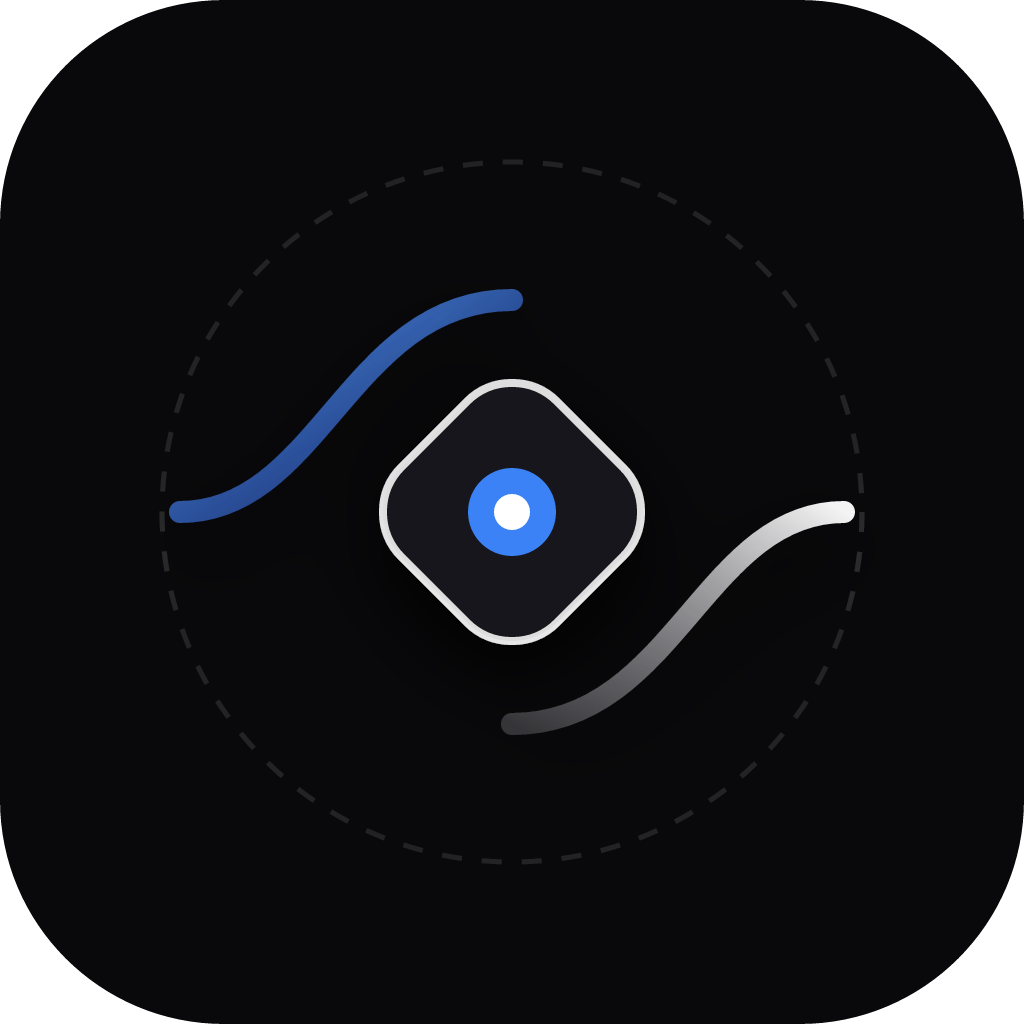
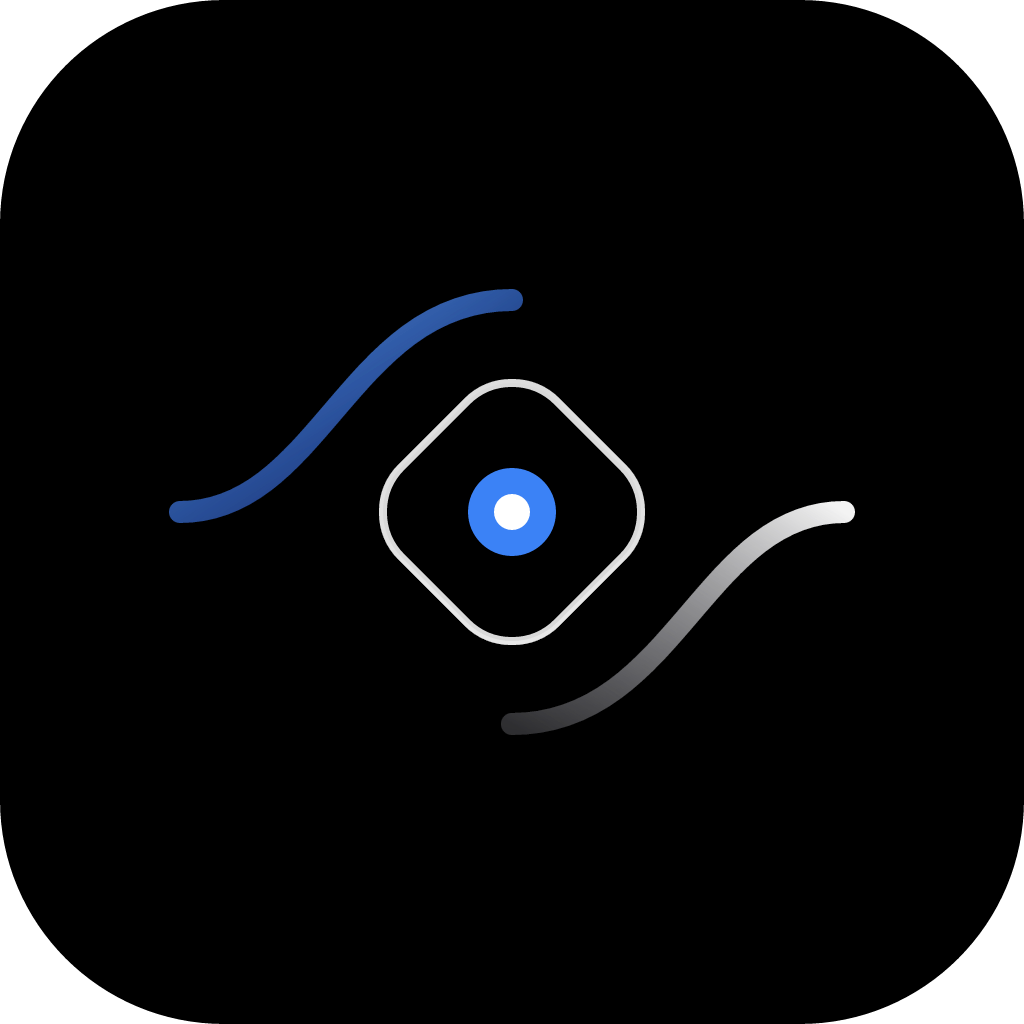
Add files via upload

Changed region(s): [[0.375, 0.375, 0.625, 0.625], [0.8125, 0.5312, 0.8438, 0.5625], [0.1562, 0.5312, 0.1875, 0.5625]]

diff --git a/index.html b/index.html
@@ -31,12 +31,11 @@
       <feDropShadow dx="0" dy="16" stdDeviation="20" flood-color="#000000" flood-opacity="0.95"/>
     </filter>
   </defs>
-  <rect width="512" height="512" rx="112" fill="#09090b"/>
+  <rect width="512" height="512" rx="112" fill="#000000"/>
   <g filter="url(#node-shadow)">
-    <circle cx="256" cy="256" r="175" fill="none" stroke="#ffffff" stroke-opacity="0.1" stroke-width="2.5" stroke-dasharray="10 10"/>
     <path d="M 90 256 C 160 256, 175 150, 256 150" fill="none" stroke="url(#line-blue)" stroke-width="11" stroke-linecap="round"/>
     <path d="M 422 256 C 352 256, 337 362, 256 362" fill="none" stroke="url(#line-white)" stroke-width="11" stroke-linecap="round"/>
-    <rect x="201" y="201" width="110" height="110" rx="32" transform="rotate(45 256 256)" fill="#18181b" stroke="#ffffff" stroke-width="4" stroke-opacity="0.85"/>
+    <rect x="201" y="201" width="110" height="110" rx="32" transform="rotate(45 256 256)" fill="#000000" stroke="#ffffff" stroke-width="4" stroke-opacity="0.85"/>
     <circle cx="256" cy="256" r="22" fill="#3b82f6"/>
     <circle cx="256" cy="256" r="9" fill="#ffffff"/>
   </g>
@@ -109,7 +108,7 @@
         }
 
         /* -----------------------------------------------------------------
-           СВЕТЛАЯ ТЕМА (LIGHT FROSTED GLASS) 
+           СВЕТЛАЯ ТЕМА (LIGHT FROSTED Glass) 
            ----------------------------------------------------------------- */
         body.light-theme {
             background-color: #f4f4f5;
@@ -164,7 +163,8 @@
         body.light-theme .bg-zinc-800 { background-color: #e4e4e7 !important; }
         body.light-theme .hover\:bg-zinc-700:hover { background-color: #d4d4d8 !important; }
 
-        body.light-theme svg rect[fill="#09090b"] { fill: #f4f4f5 !important; }
+        /* Изменили прицел с #09090b на #000000 для корректной работы с новой OLED иконкой */
+        body.light-theme svg rect[fill="#000000"] { fill: #f4f4f5 !important; }
         
         body.light-theme .border-white\/10.shadow-lg > .bg-zinc-900 {
             background-color: #18181b !important;
@@ -286,12 +286,11 @@
                           <feDropShadow dx="0" dy="16" stdDeviation="20" flood-color="#000000" flood-opacity="0.95"/>
                         </filter>
                       </defs>
-                      <rect width="512" height="512" rx="112" fill="#09090b"/>
+                      <rect width="512" height="512" rx="112" fill="#000000"/>
                       <g filter="url(#node-shadow-sb)">
-                        <circle cx="256" cy="256" r="175" fill="none" stroke="#ffffff" stroke-opacity="0.1" stroke-width="2.5" stroke-dasharray="10 10"/>
                         <path d="M 90 256 C 160 256, 175 150, 256 150" fill="none" stroke="url(#line-blue-sb)" stroke-width="11" stroke-linecap="round"/>
                         <path d="M 422 256 C 352 256, 337 362, 256 362" fill="none" stroke="url(#line-white-sb)" stroke-width="11" stroke-linecap="round"/>
-                        <rect x="201" y="201" width="110" height="110" rx="32" transform="rotate(45 256 256)" fill="#18181b" stroke="#ffffff" stroke-width="4" stroke-opacity="0.85"/>
+                        <rect x="201" y="201" width="110" height="110" rx="32" transform="rotate(45 256 256)" fill="#000000" stroke="#ffffff" stroke-width="4" stroke-opacity="0.85"/>
                         <circle cx="256" cy="256" r="22" fill="#3b82f6"/>
                         <circle cx="256" cy="256" r="9" fill="#ffffff"/>
                       </g>
@@ -366,12 +365,11 @@
                           <feDropShadow dx="0" dy="16" stdDeviation="20" flood-color="#000000" flood-opacity="0.95"/>
                         </filter>
                       </defs>
-                      <rect width="512" height="512" rx="112" fill="#09090b"/>
+                      <rect width="512" height="512" rx="112" fill="#000000"/>
                       <g filter="url(#node-shadow-ws)">
-                        <circle cx="256" cy="256" r="175" fill="none" stroke="#ffffff" stroke-opacity="0.1" stroke-width="2.5" stroke-dasharray="10 10"/>
                         <path d="M 90 256 C 160 256, 175 150, 256 150" fill="none" stroke="url(#line-blue-ws)" stroke-width="11" stroke-linecap="round"/>
                         <path d="M 422 256 C 352 256, 337 362, 256 362" fill="none" stroke="url(#line-white-ws)" stroke-width="11" stroke-linecap="round"/>
-                        <rect x="201" y="201" width="110" height="110" rx="32" transform="rotate(45 256 256)" fill="#18181b" stroke="#ffffff" stroke-width="4" stroke-opacity="0.85"/>
+                        <rect x="201" y="201" width="110" height="110" rx="32" transform="rotate(45 256 256)" fill="#000000" stroke="#ffffff" stroke-width="4" stroke-opacity="0.85"/>
                         <circle cx="256" cy="256" r="22" fill="#3b82f6"/>
                         <circle cx="256" cy="256" r="9" fill="#ffffff"/>
                       </g>
@@ -402,13 +400,6 @@
                     <div :class="msg.role === 'user' ? 'flex justify-end' : 'flex justify-start'" class="w-full animate-fade-in min-w-0">
                         <div :class="msg.role === 'user' ? 'bg-blue-600/20 text-white border-blue-500/20' : 'glass text-gray-200'" class="max-w-full md:max-w-[85%] min-w-0 rounded-2xl px-5 py-4 shadow-md relative group border">
                             
-                            <!-- Model Badge -->
-                            <template x-if="msg.modelBadge">
-                                <div class="text-[10px] uppercase tracking-wider text-blue-400 font-bold mb-2.5 flex items-center gap-1.5 opacity-90 border-b border-white/5 pb-2">
-                                    <i data-lucide="cpu" class="w-3.5 h-3.5"></i> <span x-text="msg.modelBadge"></span>
-                                </div>
-                            </template>
-
                             <!-- Attached Image -->
                             <template x-if="msg.image">
                                 <img :src="msg.image" class="max-w-[240px] md:max-w-sm rounded-xl mb-3 border border-white/10 shadow-xl object-contain bg-black/40">
